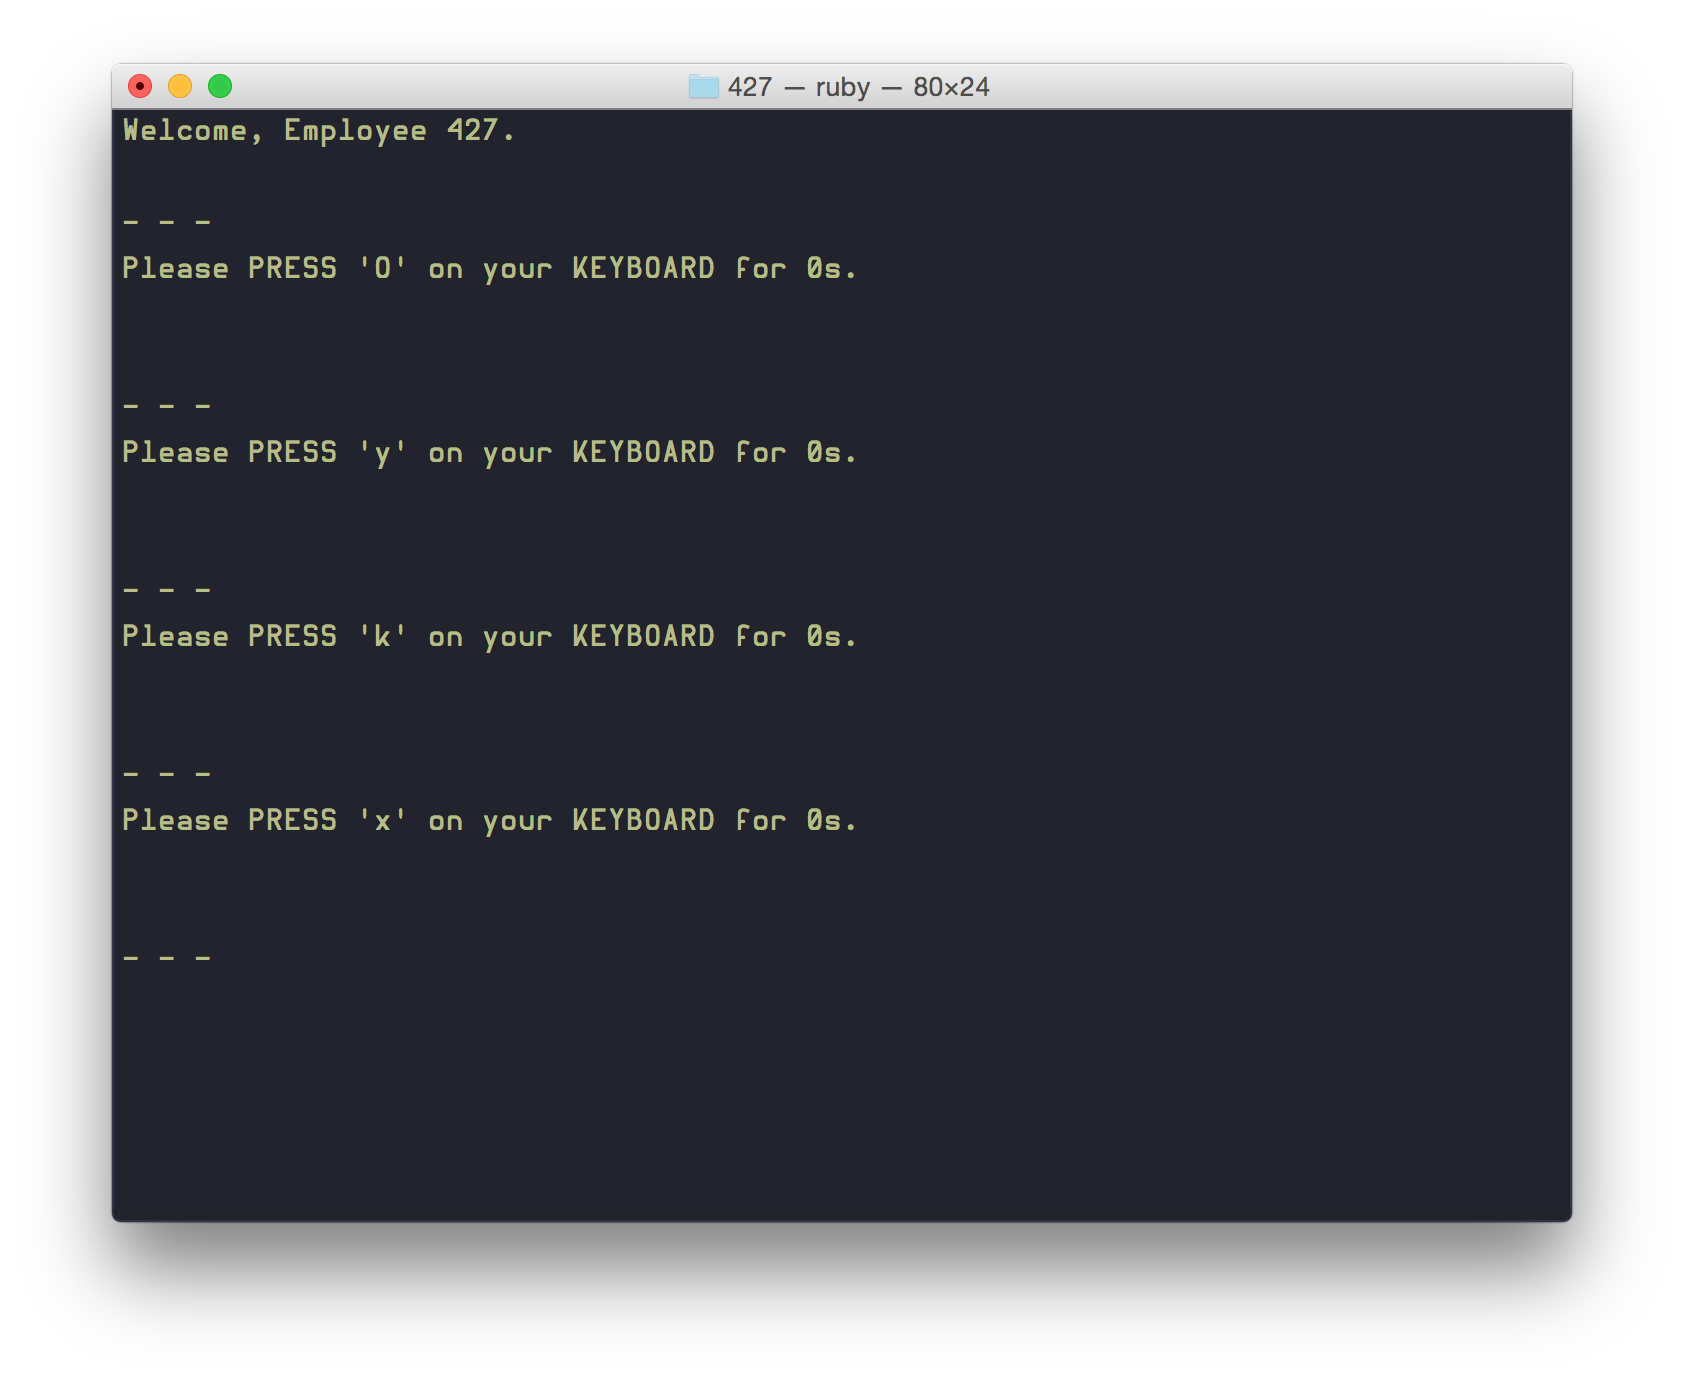
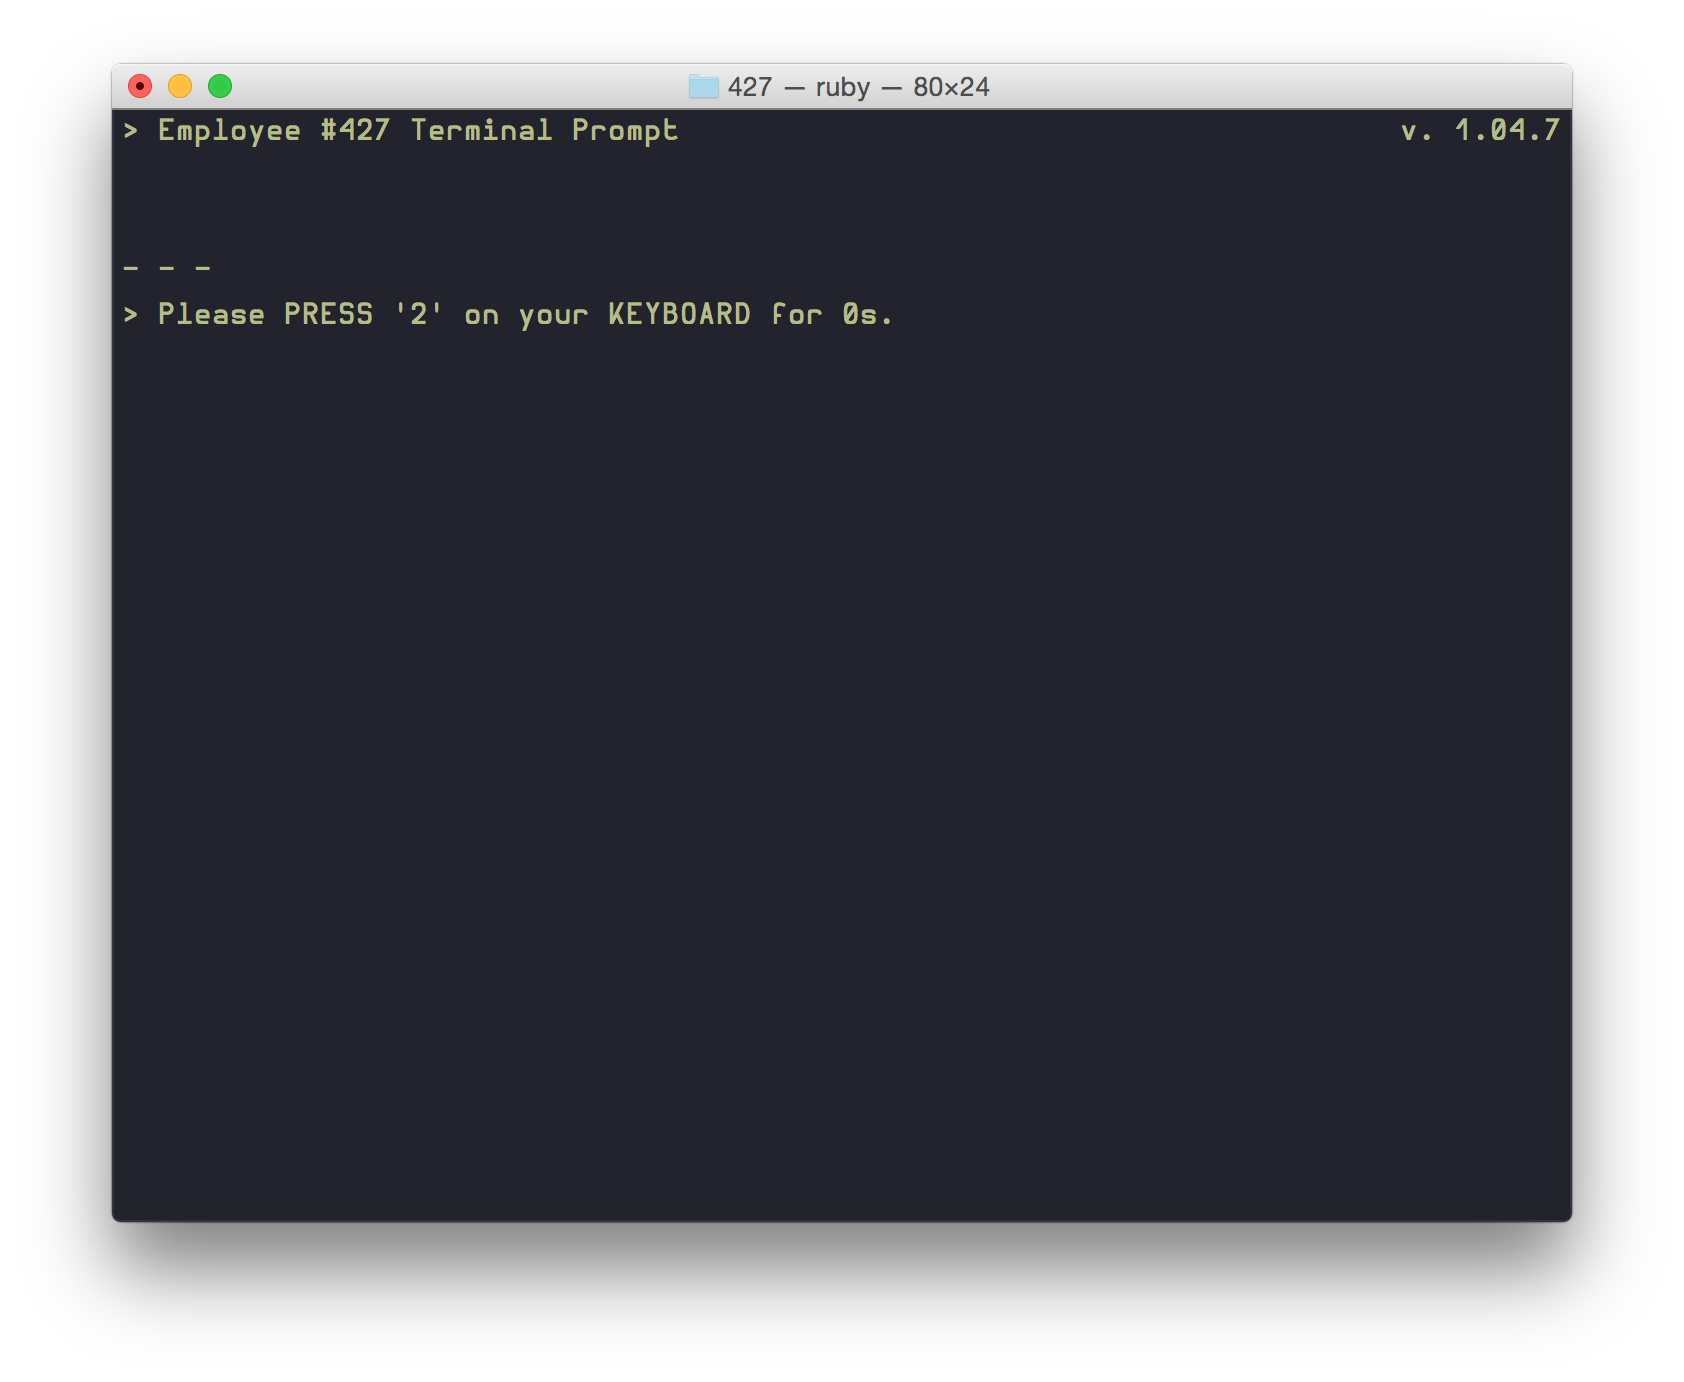
Add title bar and correct version, and leading “>”

diff --git a/lib/427/command.rb b/lib/427/command.rb
@@ -10,7 +10,7 @@ module FourTwoSeven
 
     DURATION = 0..15
 
-    PROMPT = "Please PRESS '%s' on your KEYBOARD for %ss.\n"
+    PROMPT = "> Please PRESS '%s' on your KEYBOARD for %ss.\n"
     
     SEPARATOR = "\n\n- - -\n"
   

diff --git a/lib/427/version.rb b/lib/427/version.rb
@@ -1,3 +1,3 @@
 module FourTwoSeven
-  VERSION = "0.0.1"
+  VERSION = "1.04.7"
 end

diff --git a/README.md b/README.md
@@ -30,3 +30,4 @@ And follow the commands. Quickly, of course. Slacking off won't be tolerated.
 ## Todo
 
 - Get the long keypresses to work. Keypresses stack up and get used for future commands, breaking the entire thing.
+
